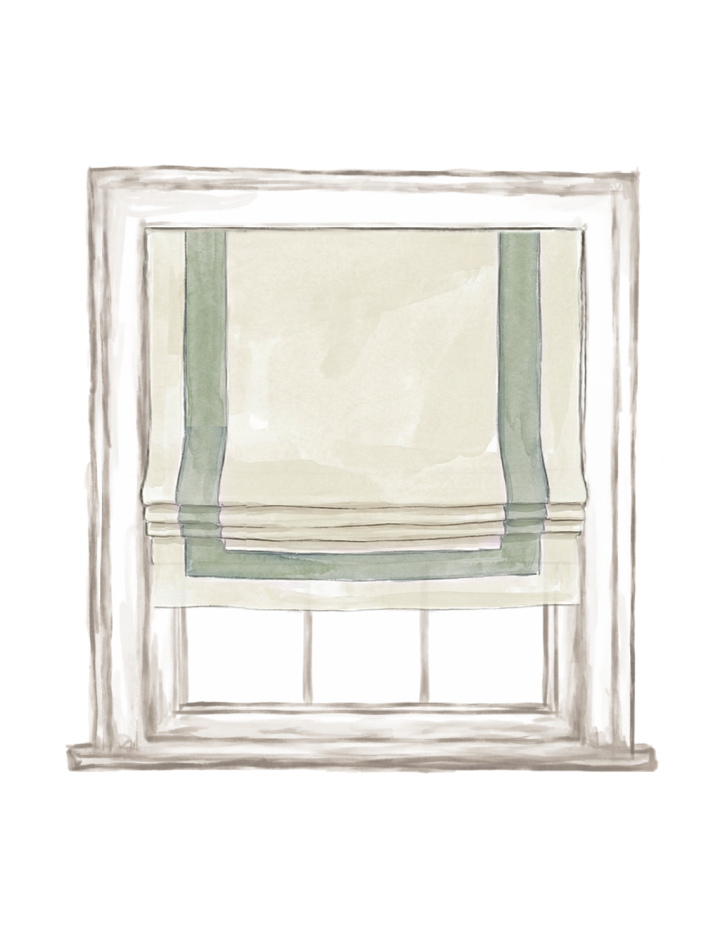
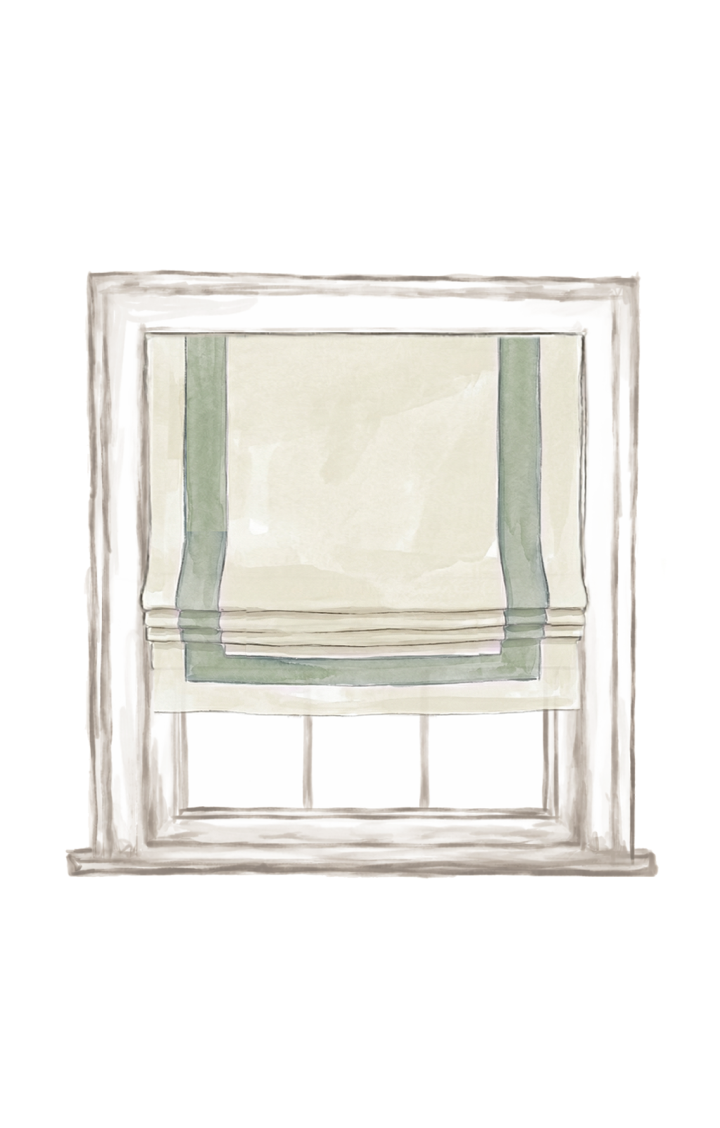
Update image and range valance/cornice

Changed region(s): [[0.1222, 0.1534, 0.8861, 0.6751], [0.0917, 0.6444, 0.9167, 0.8286], [0.7333, 0.3376, 0.7639, 0.3683]]

diff --git a/src/data/questionnaireData.js b/src/data/questionnaireData.js
@@ -32,6 +32,11 @@ import RomanShadeWidthOutside from "../assets/roman-shade-width-outside.png";
 import RomanShadeLengthInside from "../assets/roman-shade-length-inside.png";
 import RomanShadeLengthOutside from "../assets/roman-shade-length-outside.png";
 import RomanShadeHeadrail from "../assets/roman-shade-headrail.png";
+import ValanceCorniceImage from "../assets/valance-cornice-image.png";
+import ValanceCorniceWidth from "../assets/valance-cornice-width.png";
+import ValanceCorniceHeight from "../assets/valance-cornice-height.png";
+import ValanceCorniceClearance from "../assets/valance-cornice-clearance.png";
+import ValanceCorniceDepth from "../assets/valance-cornice-depth.png";
 import { isNil } from "ramda";
 import QuestionnaireRomanResults from "../components/QuestionnaireRomanResults";
 import QuestionnaireValanceCorniceResults from "../components/QuestionnaireValanceCorniceResults";
@@ -78,7 +83,7 @@ export default [
             id: "valance-cornice",
             title: "Valance / Cornice",
             image: {
-              src: RomanShadeImage,
+              src: ValanceCorniceImage,
               alt: "Valance / Cornice",
             },
             description: "",
@@ -291,7 +296,7 @@ export default [
       {
         id: "valance-cornice-width",
         image: {
-          src: RomanShadeWidthInside,
+          src: ValanceCorniceWidth,
           alt: "Measure Your Width",
         },
         validation: (value) => !isNil(value),
@@ -299,8 +304,8 @@ export default [
         options: {
           primary: {
             label: "INCHES",
-            min: 24,
-            max: 108,
+            min: 20,
+            max: 103,
             step: 1,
             placeholder: "Inches"
           },
@@ -316,7 +321,7 @@ export default [
       },
     ],
     helperText:
-      "Measure the total width of your window, including the molding. If installing over an existing shade or curtain, measure the widest area. Always round up to the nearest ½”.",
+      "Measure the total width of your window, including the molding. If installing over an existing shade or curtain, measure the widest area. Round up to the nearest 1/2”.",
     nextPageId: "valance-cornice-height",
     previousPageId: "treatment",
   },
@@ -435,7 +440,7 @@ export default [
       {
         id: "valance-cornice-height",
         image: {
-          src: RomanShadeWidthInside,
+          src: ValanceCorniceHeight,
           alt: "Measure Your Height",
         },
         validation: (value) => !isNil(value),
@@ -443,8 +448,8 @@ export default [
         options: {
           primary: {
             label: "INCHES",
-            min: 24,
-            max: 108,
+            min: 20,
+            max: 103,
             step: 1,
             placeholder: "Inches"
           },
@@ -460,7 +465,7 @@ export default [
       },
     ],
     helperText:
-      "Measure the height of your window, including the molding. Round up to the nearest 1/2”",
+      "Measure the height of your window, including the molding. Round up to the nearest 1/2”.",
     nextPageId: "valance-cornice-clearance",
     previousPageId: "valance-cornice-width",
   },
@@ -704,7 +709,7 @@ export default [
       {
         id: "valance-cornice-clearance",
         image: {
-          src: RomanShadeWidthInside,
+          src: ValanceCorniceClearance,
           alt: "Measure Your Clearance",
         },
         validation: (value) => !isNil(value),
@@ -712,8 +717,8 @@ export default [
         options: {
           primary: {
             label: "INCHES",
-            min: 24,
-            max: 108,
+            min: 1,
+            max: 14,
             step: 1,
             placeholder: "Inches"
           },
@@ -729,7 +734,7 @@ export default [
       },
     ],
     helperText:
-      "Measure the height of your top molding. If layering over a shade or curtain, measure from the top of that treatment to the bottom of the molding. Round up to the nearest ½”.",
+      "Measure the height of your top molding. If layering over a shade or curtain, measure from the top of that treatment to the bottom of the top molding. Round up to the nearest ½”.",
     nextPageId: "valance-cornice-depth",
     previousPageId: "valance-cornice-height",
   },
@@ -911,7 +916,7 @@ export default [
       {
         id: "valance-cornice-depth",
         image: {
-          src: RomanShadeWidthInside,
+          src: ValanceCorniceDepth,
           alt: "Measure Your Depth",
         },
         validation: (value) => !isNil(value),
@@ -926,6 +931,9 @@ export default [
               { label: '1 1/2"', value: 1.5 },
               { label: '2"', value: 2 },
               { label: '2 1/2"', value: 2.5 },
+              { label: '3"', value: 3 },
+              { label: '3 1/2"', value: 3.5 },
+              { label: '4"', value: 4 },
             ],
             placeholder: "Inches"
           }

diff --git a/src/components/QuestionnaireValanceCorniceResults/QuestionnaireValanceCorniceResults.jsx b/src/components/QuestionnaireValanceCorniceResults/QuestionnaireValanceCorniceResults.jsx
@@ -5,14 +5,7 @@ import config from '../../config'
 // import './style.scss'
 import { getAllMostRecentAnswers } from '../../utilities/answers'
 
-import RomanShadeFlatInside from "../../assets/roman-shade-flat-inside.png";
-import RomanShadeFlatOutside from "../../assets/roman-shade-flat-outside.png";
-import RomanShadeKnifePleatInside from "../../assets/roman-shade-knife-pleat-inside.png";
-import RomanShadeKnifePleatOutside from "../../assets/roman-shade-knife-pleat-outside.png";
-import RomanShadeRelaxedInside from "../../assets/roman-shade-relaxed-inside.png";
-import RomanShadeRelaxedOutside from "../../assets/roman-shade-relaxed-outside.png";
-import RomanShadeScallopedInside from "../../assets/roman-shade-scalloped-inside.png";
-import RomanShadeScallopedOutside from "../../assets/roman-shade-scalloped-outside.png";
+import ValanceCorniceImage from "../../assets/valance-cornice-result.png";
 
 const { PAGE_HEADING_ELEMENT, SHOW_BACK_BUTTON } = config
 
@@ -31,56 +24,6 @@ const RESULT_OPTIONS_WRAPPER_CLASSNAME = 'result-options-wrapper roman-result-wr
 const RESULT_OPTION_HEADING_CLASSNAME = 'result-option-heading'
 const RESULT_OPTION_IMAGE_CLASSNAME = 'result-option-image'
 const RESULT_OPTION_DETAILS_WRAPPER_CLASSNAME = 'result-option-details-wrapper'
-
-// const ROMAN_STYLE = {
-//     FLAT: 'roman-flat',
-//     KNIFE_PLEAT: 'roman-knife-pleat',
-//     RELAXED: 'roman-relaxed',
-//     SCALLOPED: "roman-scalloped"
-// }
-
-// const ROMAN_MOUNT_TYPE = {
-//     INSIDE_MOUNT: 'inside-mount',
-//     OUTSIDE_MOUNT: 'outside-mount',
-// }
-
-// const getImageSrc = (style, type) => ({
-//     [ROMAN_STYLE.FLAT]: {
-//       [ROMAN_MOUNT_TYPE.INSIDE_MOUNT]: RomanShadeFlatInside,
-//       [ROMAN_MOUNT_TYPE.OUTSIDE_MOUNT]: RomanShadeFlatOutside
-//     },
-//     [ROMAN_STYLE.KNIFE_PLEAT]: {
-//       [ROMAN_MOUNT_TYPE.INSIDE_MOUNT]: RomanShadeKnifePleatInside,
-//       [ROMAN_MOUNT_TYPE.OUTSIDE_MOUNT]: RomanShadeKnifePleatOutside
-//     },
-//     [ROMAN_STYLE.RELAXED]: {
-//       [ROMAN_MOUNT_TYPE.INSIDE_MOUNT]: RomanShadeRelaxedInside,
-//       [ROMAN_MOUNT_TYPE.OUTSIDE_MOUNT]: RomanShadeRelaxedOutside
-//     },
-//     [ROMAN_STYLE.SCALLOPED]: {
-//       [ROMAN_MOUNT_TYPE.INSIDE_MOUNT]: RomanShadeScallopedInside,
-//       [ROMAN_MOUNT_TYPE.OUTSIDE_MOUNT]: RomanShadeScallopedOutside
-//     },
-// }[style][type])
-
-// const getImageTitle = (id, type) => ({
-//     [ROMAN_STYLE.FLAT]: {
-//       [ROMAN_MOUNT_TYPE.INSIDE_MOUNT]: 'Flat, Inside Mount',
-//       [ROMAN_MOUNT_TYPE.OUTSIDE_MOUNT]: 'Flat, Outside Mount'
-//     },
-//     [ROMAN_STYLE.KNIFE_PLEAT]: {
-//       [ROMAN_MOUNT_TYPE.INSIDE_MOUNT]: 'Knife Pleat, Inside Mount',
-//       [ROMAN_MOUNT_TYPE.OUTSIDE_MOUNT]: 'Knife Pleat, Outside Mount'
-//     },
-//     [ROMAN_STYLE.RELAXED]: {
-//       [ROMAN_MOUNT_TYPE.INSIDE_MOUNT]: 'Relaxed, Inside Mount',
-//       [ROMAN_MOUNT_TYPE.OUTSIDE_MOUNT]: 'Relaxed, Outside Mount'
-//     },
-//     [ROMAN_STYLE.SCALLOPED]: {
-//       [ROMAN_MOUNT_TYPE.INSIDE_MOUNT]: 'Scalloped, Inside Mount',
-//       [ROMAN_MOUNT_TYPE.OUTSIDE_MOUNT]: 'Scalloped, Outside Mount'
-//     },
-// }[id][type])
 
 const DEFAULT_PROPS = {
     onGoToNextPage: () => { }
@@ -144,7 +87,7 @@ const Component = props => {
         className: '',
         title: "Valance/Cornice",
         image: {
-            src: RomanShadeFlatInside,
+            src: ValanceCorniceImage,
             alt: "Valance/Cornice",
         },
         panelCount: 1,
@@ -229,7 +172,7 @@ const Component = props => {
                 : 
                     <a
                         className={`${BUTTON_CLASSNAME} ${NEXT_BUTTON_CLASSNAME}`}
-                        href="/collections/custom-roman-shades"
+                        href="/collections/custom-top-treatments"
                     >
                         Shop
                     </a>
